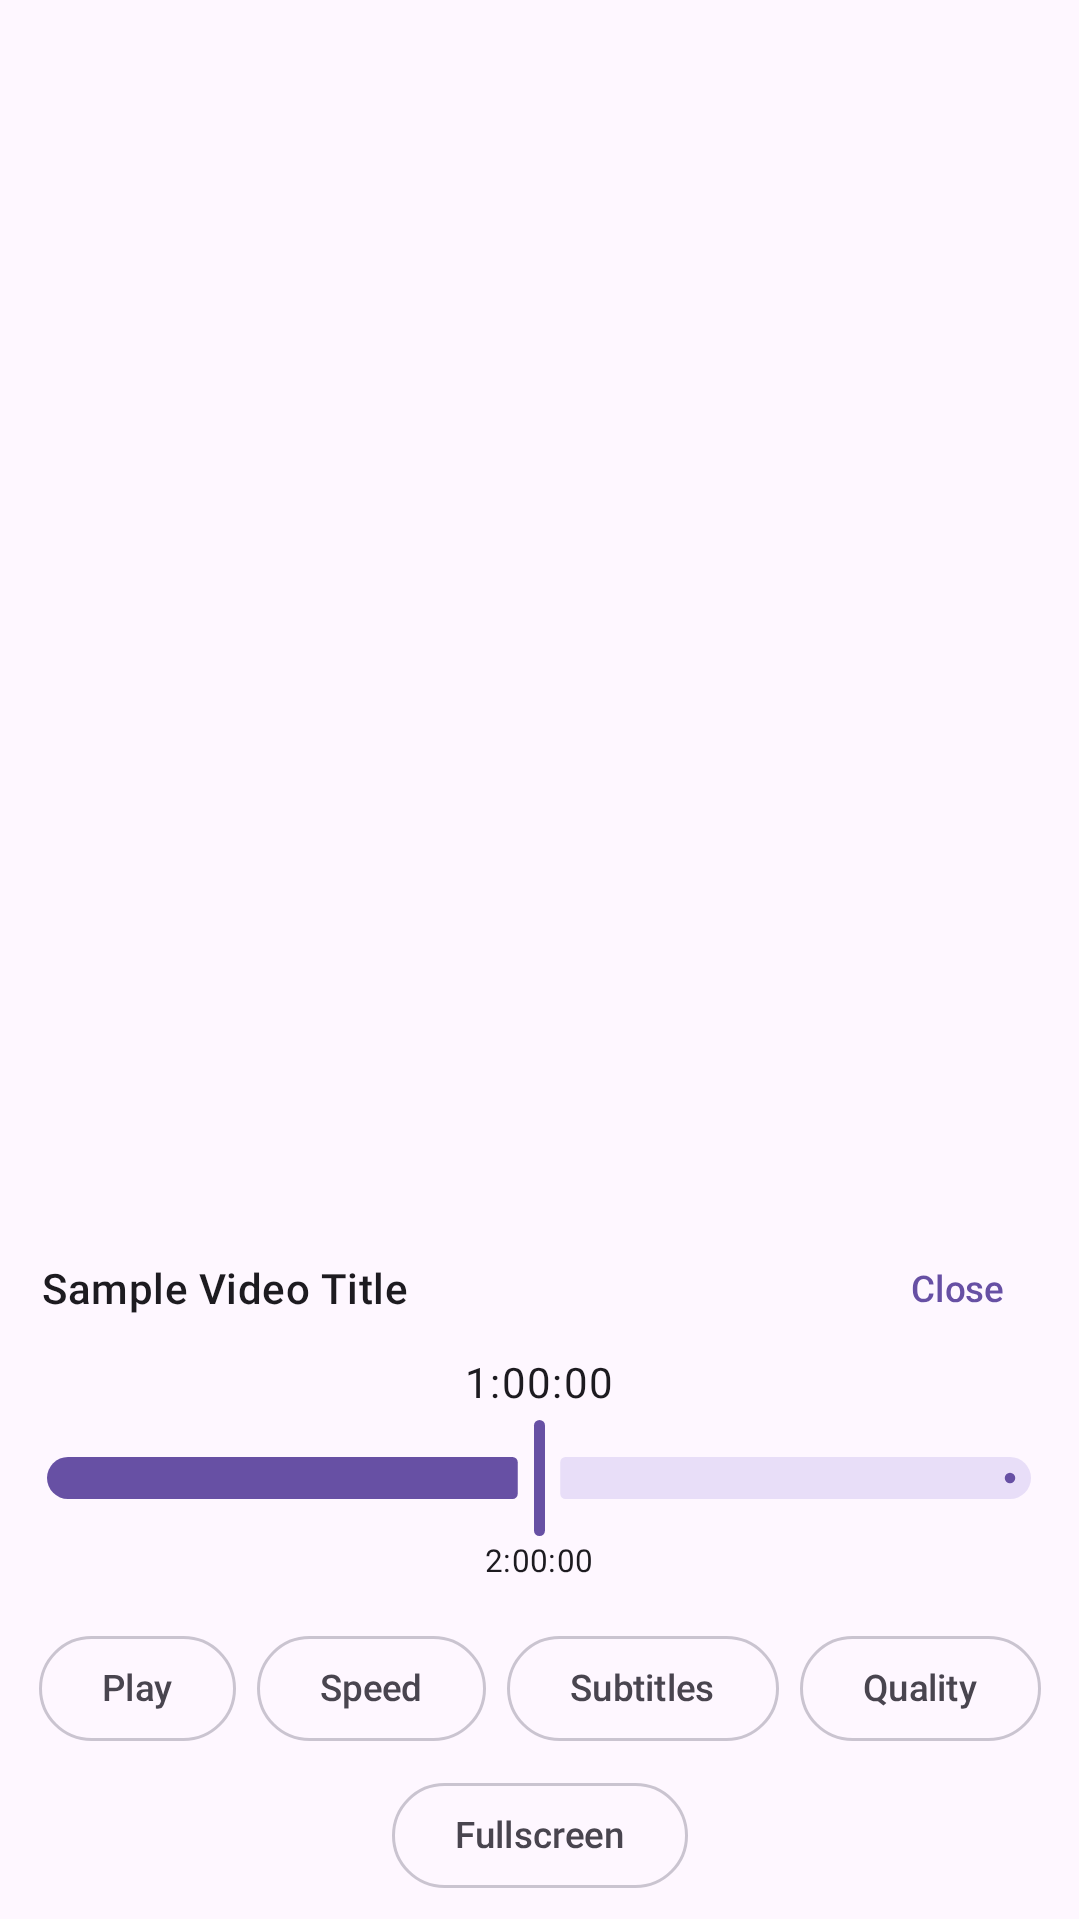
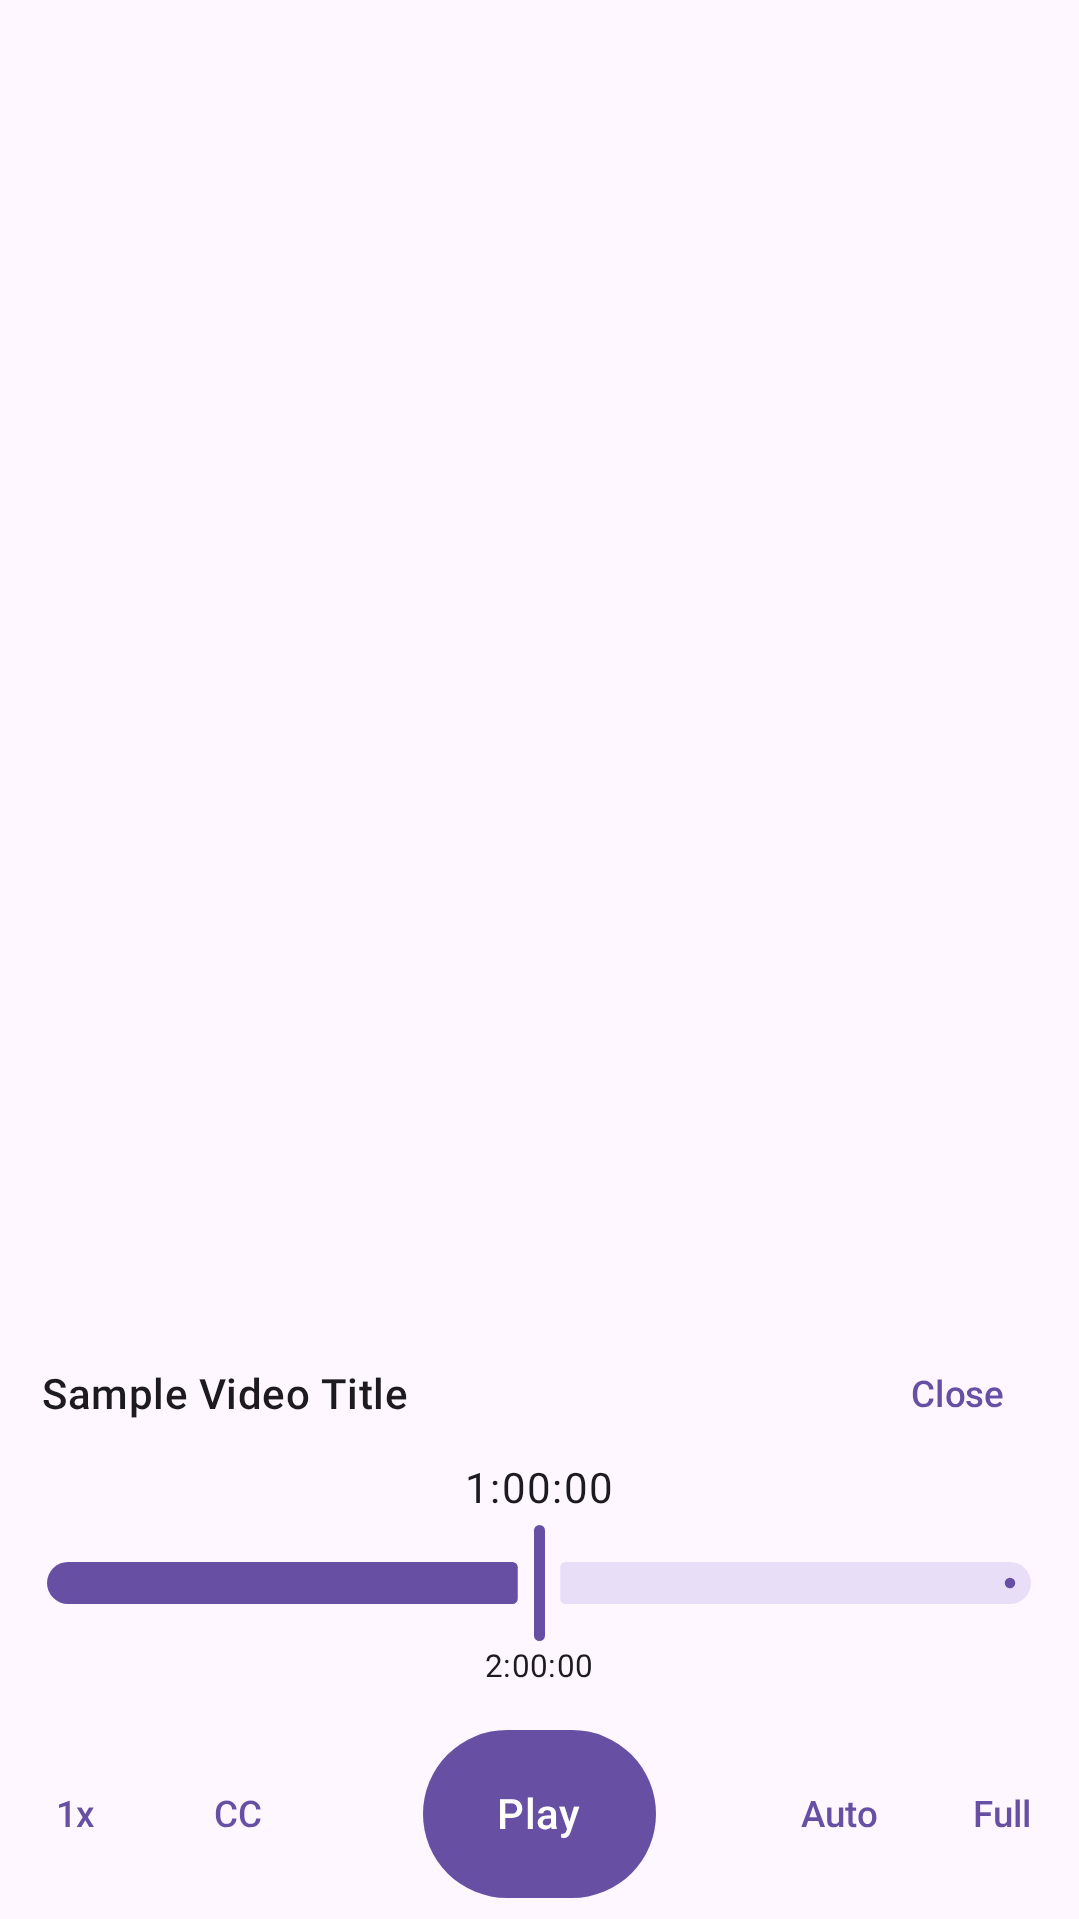
feat: make play/pause the primary player control (#387)
* feat: make play/pause the primary player control

The control bar was five equal-weight text buttons (Play/Pause, Speed,
Subtitles, Quality, Fullscreen), so the primary action had no visual
hierarchy and wrapped on narrow phones.

Give play/pause the media-player convention: the largest control,
centred, with compact secondary chips (1x, CC, quality, Full/Exit) on
either side. The chips keep their full wording as accessibility
descriptions, and the desktop fullscreen test now selects by that
description. README and device-acceptance docs describe the new layout;
screenshot goldens and README images are regenerated separately.

* chore: regenerate golden images and README screenshots

---------

diff --git a/feature/player/src/commonMain/kotlin/net/subsloth/player/PlayerOverlaySections.kt b/feature/player/src/commonMain/kotlin/net/subsloth/player/PlayerOverlaySections.kt
@@ -4,8 +4,10 @@ package net.subsloth.player
 
 import androidx.compose.foundation.background
 import androidx.compose.foundation.layout.Arrangement
+import androidx.compose.foundation.layout.Box
 import androidx.compose.foundation.layout.Column
-import androidx.compose.foundation.layout.FlowRow
+import androidx.compose.foundation.layout.PaddingValues
+import androidx.compose.foundation.layout.Row
 import androidx.compose.foundation.layout.Spacer
 import androidx.compose.foundation.layout.fillMaxSize
 import androidx.compose.foundation.layout.fillMaxWidth
@@ -18,11 +20,14 @@ import androidx.compose.material3.ButtonDefaults
 import androidx.compose.material3.MaterialTheme
 import androidx.compose.material3.OutlinedButton
 import androidx.compose.material3.Text
+import androidx.compose.material3.TextButton
 import androidx.compose.runtime.Composable
 import androidx.compose.runtime.Immutable
 import androidx.compose.ui.Alignment
 import androidx.compose.ui.Modifier
 import androidx.compose.ui.graphics.Color
+import androidx.compose.ui.semantics.contentDescription
+import androidx.compose.ui.semantics.semantics
 import androidx.compose.ui.text.style.TextAlign
 import androidx.compose.ui.unit.dp
 import io.github.kdroidfilter.composemediaplayer.VideoPlayerState
@@ -92,37 +97,86 @@ internal fun PlaybackControls(
     onToggleQuality: () -> Unit = {},
     isFullscreen: Boolean = false,
     onToggleFullscreen: () -> Unit = {},
+    playbackSpeed: Float = 1f,
+    qualityLabel: String? = null,
 ) {
-    // Wraps so the added fullscreen control still fits narrow (portrait)
-    // layouts; wide layouts keep one centered row.
-    FlowRow(
-        horizontalArrangement = Arrangement.spacedBy(8.dp, Alignment.CenterHorizontally),
-        verticalArrangement = Arrangement.spacedBy(8.dp),
-        modifier = Modifier.fillMaxWidth(),
-    ) {
-        OutlinedButton(onClick = onTogglePlayPause) {
-            Text(if (isPlaying) stringResource(Res.string.player_pause) else stringResource(Res.string.player_play))
+    // Play/pause is the primary action: the largest control, centred, with the
+    // secondary options as compact chips on either side — the media-player
+    // convention. Compact labels keep it to one row on narrow phones.
+    Box(modifier = Modifier.fillMaxWidth()) {
+        Row(
+            modifier = Modifier.align(Alignment.CenterStart),
+            horizontalArrangement = Arrangement.spacedBy(4.dp),
+            verticalAlignment = Alignment.CenterVertically,
+        ) {
+            ControlChip(
+                label = formatSpeedLabel(playbackSpeed),
+                description = stringResource(Res.string.player_speed),
+                onClick = onToggleSpeed,
+            )
+            ControlChip(
+                label = stringResource(Res.string.player_subtitles_short),
+                description = stringResource(Res.string.player_subtitles),
+                onClick = onToggleSubtitles,
+            )
         }
-        OutlinedButton(onClick = onToggleSpeed) {
-            Text(stringResource(Res.string.player_speed))
-        }
-        OutlinedButton(onClick = onToggleSubtitles) {
-            Text(stringResource(Res.string.player_subtitles))
-        }
-        OutlinedButton(onClick = onToggleQuality) {
-            Text(stringResource(Res.string.player_quality))
-        }
-        OutlinedButton(onClick = onToggleFullscreen) {
+
+        Button(
+            onClick = onTogglePlayPause,
+            modifier = Modifier.align(Alignment.Center).height(64.dp),
+            contentPadding = PaddingValues(horizontal = 28.dp),
+        ) {
             Text(
-                if (isFullscreen) {
+                text = if (isPlaying) {
+                    stringResource(Res.string.player_pause)
+                } else {
+                    stringResource(Res.string.player_play)
+                },
+                style = MaterialTheme.typography.titleMedium,
+            )
+        }
+
+        Row(
+            modifier = Modifier.align(Alignment.CenterEnd),
+            horizontalArrangement = Arrangement.spacedBy(4.dp),
+            verticalAlignment = Alignment.CenterVertically,
+        ) {
+            ControlChip(
+                label = qualityLabel ?: stringResource(Res.string.player_quality_auto_short),
+                description = stringResource(Res.string.player_quality),
+                onClick = onToggleQuality,
+            )
+            ControlChip(
+                label = if (isFullscreen) {
+                    stringResource(Res.string.player_exit_fullscreen_short)
+                } else {
+                    stringResource(Res.string.player_fullscreen_short)
+                },
+                description = if (isFullscreen) {
                     stringResource(Res.string.player_exit_fullscreen)
                 } else {
                     stringResource(Res.string.player_fullscreen)
                 },
+                onClick = onToggleFullscreen,
             )
         }
     }
 }
+
+/** A compact secondary control; [description] keeps it readable by screen readers. */
+@Composable
+private fun ControlChip(label: String, description: String, onClick: () -> Unit) {
+    TextButton(
+        onClick = onClick,
+        contentPadding = PaddingValues(horizontal = 10.dp, vertical = 4.dp),
+        modifier = Modifier.semantics { contentDescription = description },
+    ) {
+        Text(text = label, style = MaterialTheme.typography.labelLarge)
+    }
+}
+
+/** Formats a playback speed without a trailing `.0`: `1x`, `1.5x`, `1.25x`. */
+internal fun formatSpeedLabel(speed: Float): String = if (speed % 1f == 0f) "${speed.toInt()}x" else "${speed}x"
 
 @Composable
 internal fun SpeedPicker(currentSpeed: Float, onSelect: (Float) -> Unit) {

diff --git a/desktopApp/src/test/kotlin/net/subsloth/PlayerDesktopTest.kt b/desktopApp/src/test/kotlin/net/subsloth/PlayerDesktopTest.kt
@@ -7,6 +7,7 @@ import androidx.compose.runtime.setValue
 import androidx.compose.ui.test.assertHasClickAction
 import androidx.compose.ui.test.assertIsDisplayed
 import androidx.compose.ui.test.junit4.v2.createComposeRule
+import androidx.compose.ui.test.onNodeWithContentDescription
 import androidx.compose.ui.test.onNodeWithText
 import androidx.compose.ui.test.performClick
 import io.github.kdroidfilter.composemediaplayer.PreviewableVideoPlayerState
@@ -244,11 +245,13 @@ class PlayerDesktopTest {
             }
         }
 
-        composeRule.onNodeWithText("Fullscreen").assertIsDisplayed()
-        composeRule.onNodeWithText("Fullscreen").performClick()
+        // The control bar shows the compact label ("Full"/"Exit") with the
+        // full wording as its accessibility description.
+        composeRule.onNodeWithContentDescription("Fullscreen").assertIsDisplayed()
+        composeRule.onNodeWithContentDescription("Fullscreen").performClick()
         composeRule.waitForIdle()
 
-        composeRule.onNodeWithText("Exit fullscreen").assertIsDisplayed()
+        composeRule.onNodeWithContentDescription("Exit fullscreen").assertIsDisplayed()
         assertTrue(playerState.isFullscreen, "player state should be fullscreen")
         assertEquals(true, reportedFullscreen, "host should observe the fullscreen change")
     }

diff --git a/feature/player/src/jvmTest/kotlin/net/subsloth/player/PlaybackSpeedLabelTest.kt b/feature/player/src/jvmTest/kotlin/net/subsloth/player/PlaybackSpeedLabelTest.kt
@@ -1,0 +1,19 @@
+package net.subsloth.player
+
+import net.subsloth.testing.assertions.assertThat
+import org.junit.jupiter.api.Test
+
+class PlaybackSpeedLabelTest {
+
+    @Test
+    fun `whole speeds drop the decimal`() {
+        assertThat(formatSpeedLabel(1f)).isEqualTo("1x")
+        assertThat(formatSpeedLabel(2f)).isEqualTo("2x")
+    }
+
+    @Test
+    fun `fractional speeds keep their value`() {
+        assertThat(formatSpeedLabel(1.5f)).isEqualTo("1.5x")
+        assertThat(formatSpeedLabel(0.5f)).isEqualTo("0.5x")
+    }
+}

diff --git a/feature/player/src/commonMain/kotlin/net/subsloth/player/PlayerScreen.kt b/feature/player/src/commonMain/kotlin/net/subsloth/player/PlayerScreen.kt
@@ -315,6 +315,8 @@ fun PlayerOverlay(
                         onToggleQuality = { showQualityPicker = !showQualityPicker },
                         isFullscreen = isFullscreen,
                         onToggleFullscreen = onToggleFullscreen,
+                        playbackSpeed = state.playbackSpeed,
+                        qualityLabel = state.selectedQualityLabel,
                     )
                 }
 

diff --git a/docs/testing/device-acceptance.md b/docs/testing/device-acceptance.md
@@ -110,8 +110,10 @@ This document describes the manual device acceptance checklist for the three sup
 
 ### 4.2 Playback controls
 1. During playback, verify on-screen controls appear on tap (phone/tablet) or D-pad activation (TV).
-2. Verify **Play/Pause**, **Seek forward/backward**, and **Stop** work correctly.
-3. Verify the current playback position and duration are displayed.
+2. Verify the large centred **Play/Pause** button toggles playback, and that the compact
+   speed, **CC** (subtitles), quality, and **Full** (fullscreen) chips open their pickers.
+3. Verify seeking works by dragging the progress slider.
+4. Verify the current playback position and duration are displayed.
 
 ### 4.2b Screen stays on
 1. Start playback on Android and leave the device untouched until the system

diff --git a/README.md b/README.md
@@ -220,7 +220,7 @@ convention's exact configuration.
 | **Dual-subtitle playback** | Watch with two simultaneous subtitle tracks for language immersion |
 | **Catalog browsing** | Movies and series with search, filters, and sort |
 | **Detail views** | Movie and series detail screens with episode structure and metadata |
-| **Video player** | Playback with quality selection, resume, speed control, and subtitle picker |
+| **Video player** | Large centered play/pause with speed, subtitle, quality, and fullscreen controls; resume support |
 | **Offline downloads** | Queue management, storage safety, and offline playback |
 | **Library & settings** | Personal library, central Downloads screen, settings, diagnostics |
 
